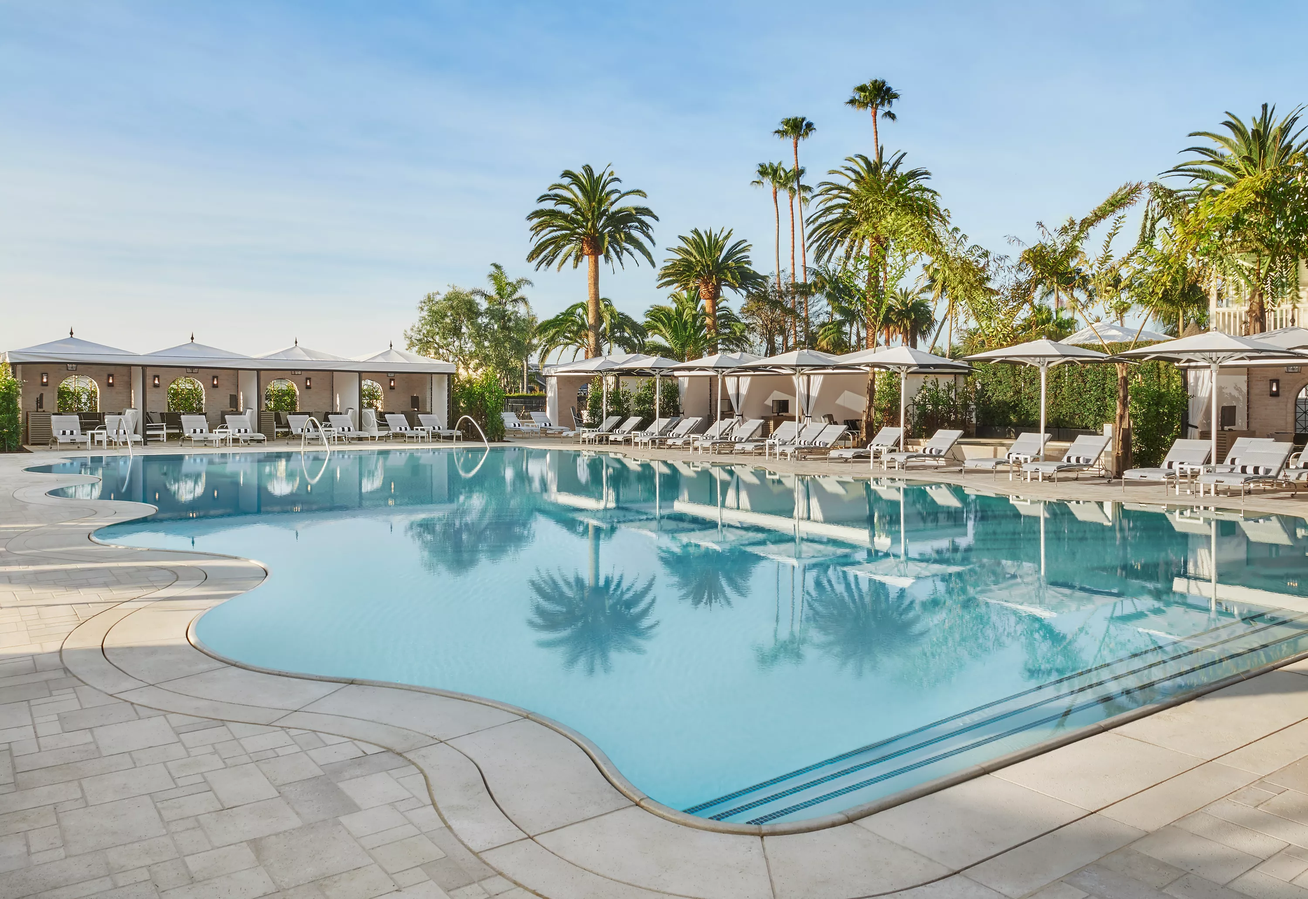
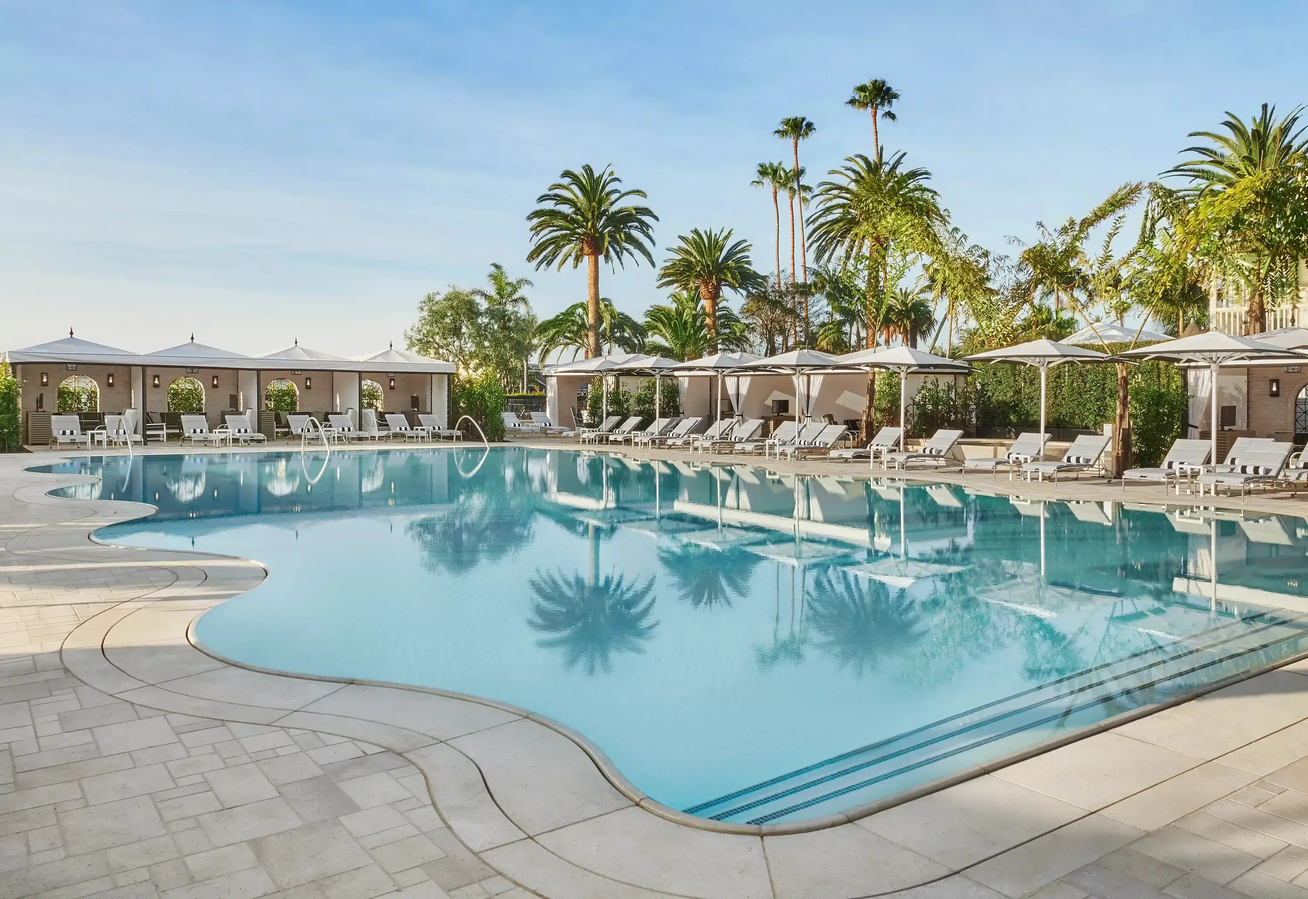
init
change pics png -> webp

diff --git a/index.html b/index.html
@@ -15,7 +15,7 @@
     <div class="container">
         <header>
             <div class="logga">
-                <img src="pauli hotels logga.png" alt="" srcset="">
+                <img src="pauli-hotels-logga.webp" alt="" srcset="">
 
             </div>
             <nav class="txt">
@@ -63,7 +63,7 @@
             </section>
             <section class="rum">
                 <div class="roomen">
-                    <img src="rummet.jpg" alt="rum" class="te21a">
+                    <img src="rummet.webp" alt="rum" class="te21a">
                 </div>
                 <div class="poolen">
                     <img src="pool.webp" alt="pool">

diff --git a/styles.css b/styles.css
@@ -2,7 +2,7 @@
 
 
 header {
-    background-image: url(pauli.jpg);
+    background-image: url(pauli.webp);
     background-repeat: no-repeat;
     background-size: 100%;
 }
@@ -45,7 +45,7 @@ main {
     border: 5px solid black;
     border-left-width: 60px;
     border-right-width: 60px;
-    background: black;
+    background: #020403;
     border-radius: 15px;
 
 }
